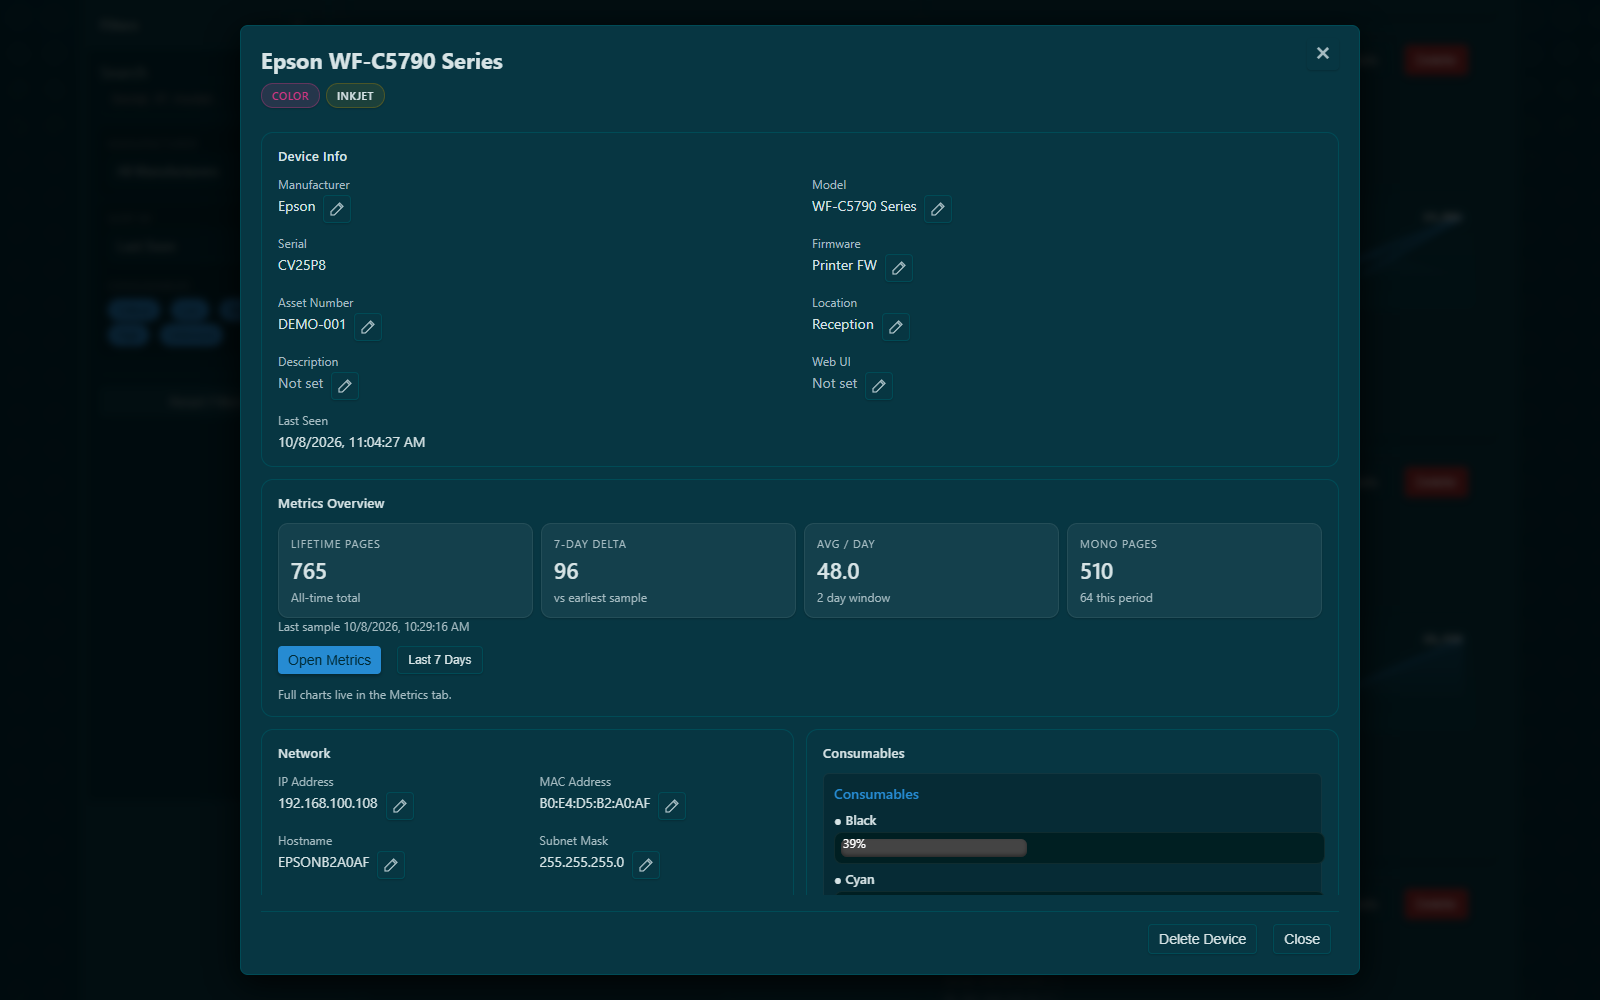
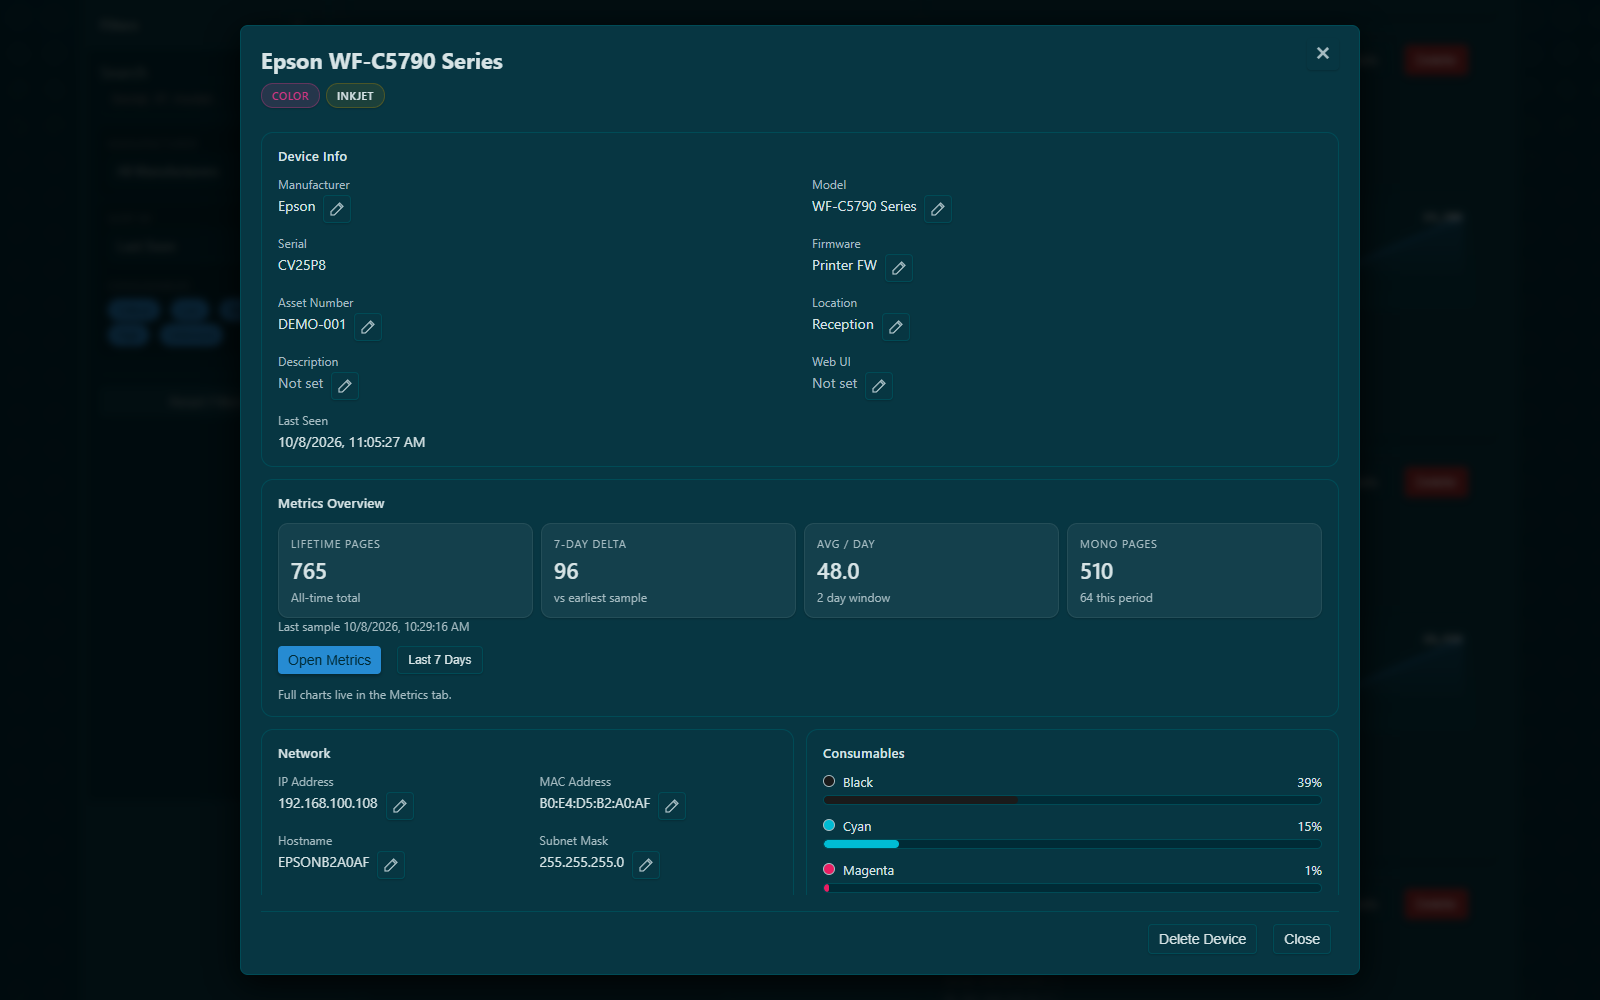
Document shared consumables colors and refresh details screenshot

Changed region(s): [[0.5, 0.744, 0.8438, 0.899]]

diff --git a/content/guides/features.md b/content/guides/features.md
@@ -86,6 +86,10 @@ values have a labeled edit button beside them. Device information uses two colum
 on desktop and stacks on narrow screens. All screenshots in this guide use
 synthetic demo data.
 
+Consumables use the same ink-color palette in device lists and details, including
+light shades and specialty inks. Percentages sit beside the labels above compact
+bars; waste and maintenance supplies retain status-based warning colors.
+
 ![Device identity, asset tag, location, and metrics overview](/media/docs/screenshots/Device%20Details%20-%20PrintMaster%20Agent.png)
 
 ### Collected Data
